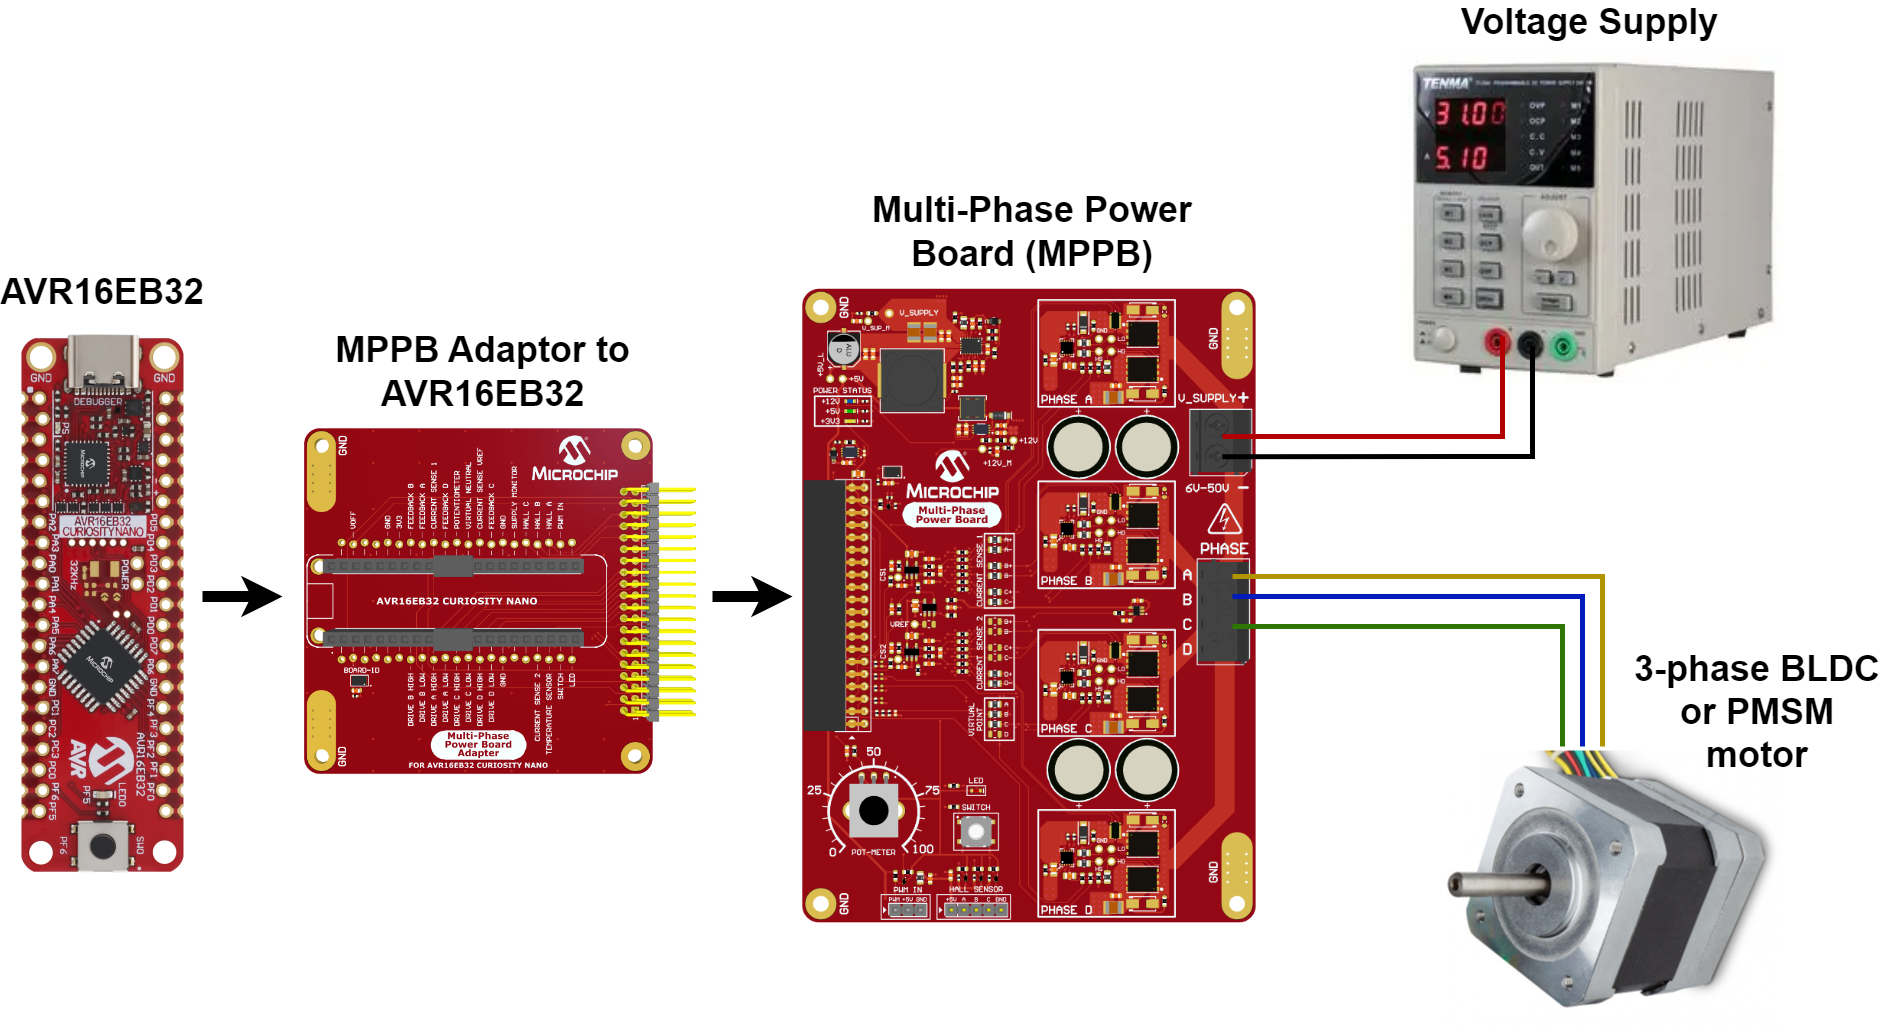
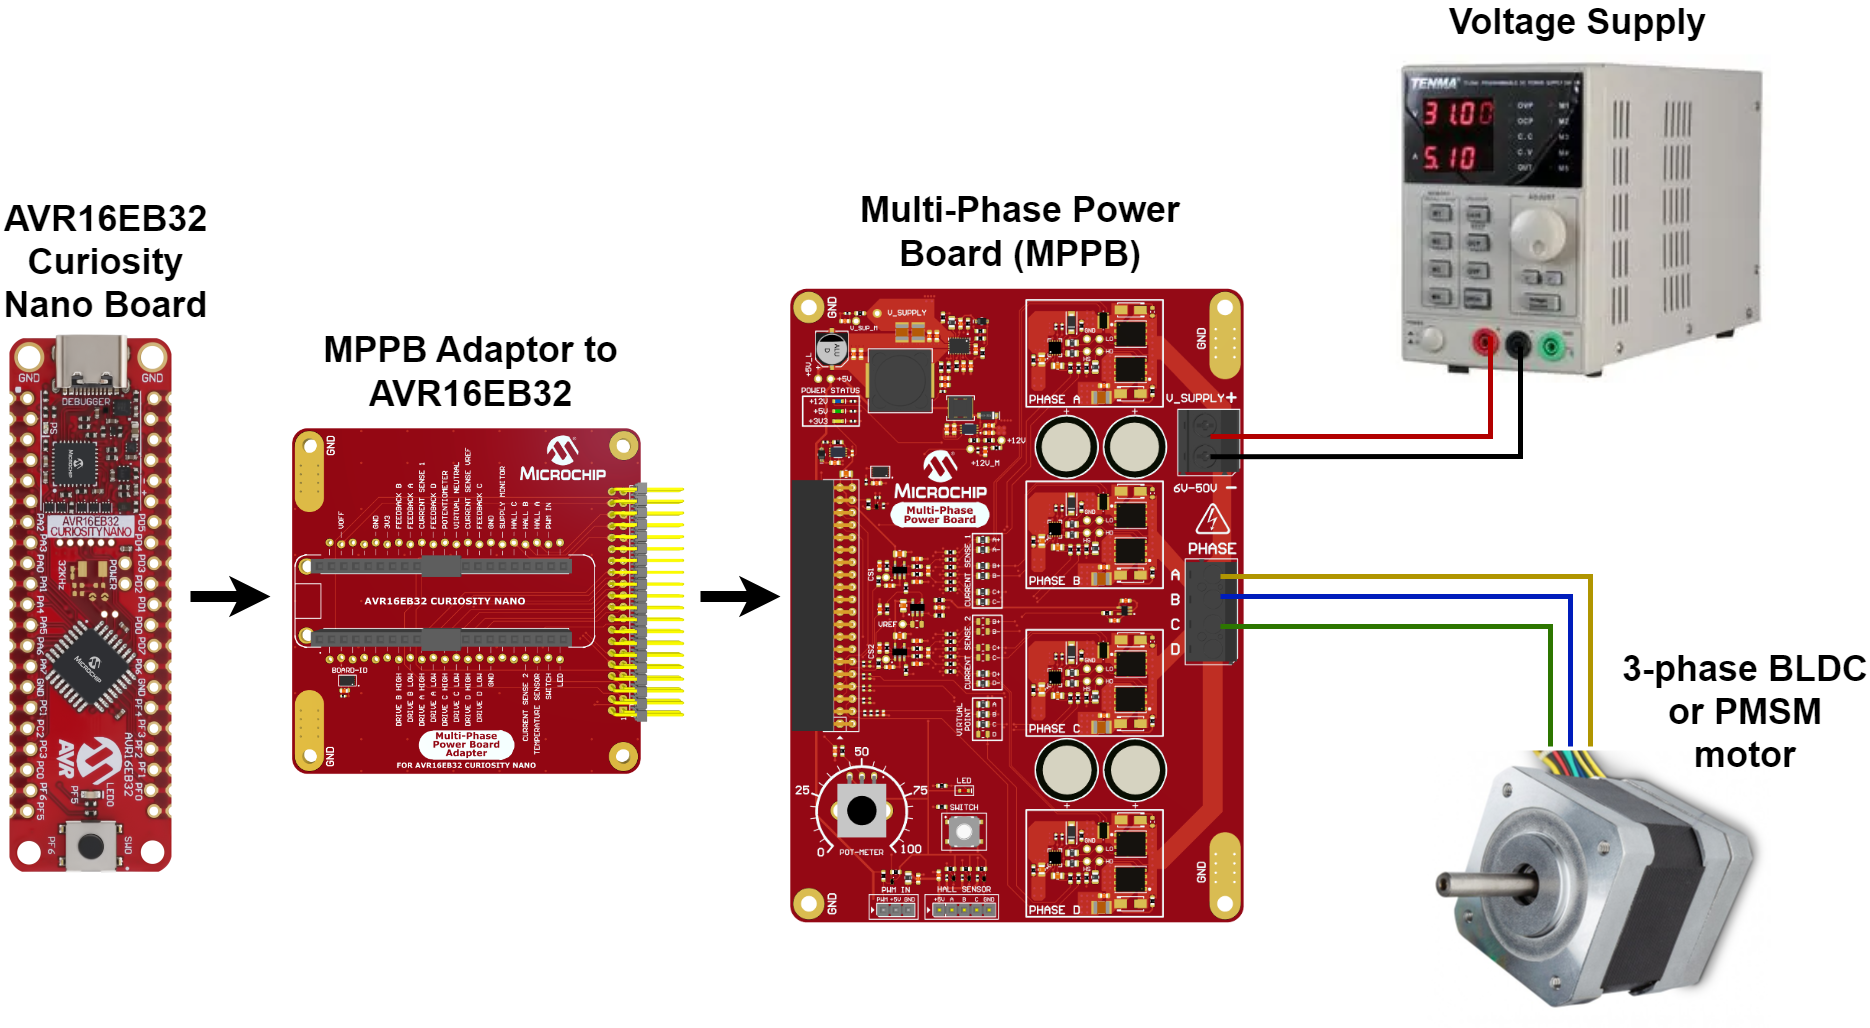
MPAE-17086 : implemented comments from TW review

diff --git a/BEMF_Acquisition_Demo/README.md b/BEMF_Acquisition_Demo/README.md
@@ -2,7 +2,7 @@
 
 ## BEMF Acquisition Demo
 
-Below is an example of how to set a Timer/Counter type E (TCE) and a Waveform Extension (WEX) instance to generate six complementary Pulse-Width Modulation (PWM) signals to drive Sinusoidal a 3-phase Brushless Direct Current Motor (BLDC), or a Permanent Magnet Synchronous Motor (PMSM). This example also configures the Analog Comparator (AC) peripheral to measure directly the Back Electromotive Force (BEMF), when the motor is spinning. The measurement window is one of the two dead time periods during a PWM cycle. This dead time period is increased to 2 µs to have a big enough acquisition window to detect clean BEMF, that is not influenced by the PWM driving signals. The other dead time period is kept at 500 ns. A full PWM cycle has 50 µs (which is the classic 20KHz frequency of MOSFET switching, used in Motor Control applications). The motor is spinning using forced commutation in this example without any sort of synchronization or Closed Loop algorithms. This code example just highlights the new BEMF measurement method, during dead time.
+This example shows how to set a Timer/Counter type E (TCE) and a Waveform Extension (WEX) instance to generate six complementary Pulse-Width Modulation (PWM) signals to spin a 3-phase Brushless Direct Current Motor (BLDC) or a Permanent Magnet Synchronous Motor (PMSM) with a Sinusoidal Drive. This example also configures the Analog Comparator (AC) peripheral to measure directly the Back Electromotive Force (BEMF), when the motor is spinning. The measurement window is one of the two dead time periods during a PWM cycle. This dead time period is increased to 2 µs to have a big enough acquisition window to detect clean BEMF, that is not influenced by the PWM driving signals. The other dead time period is kept at 500 ns. A full PWM cycle has 50 µs (which is the classic 20 KHz frequency of MOSFET switching, used in Motor Control applications). The motor is spinning using forced commutation in this example without any sort of synchronization or Closed Loop algorithms. This code example just highlights the new BEMF measurement method during dead time.
 
 ## Related Documentation
 
@@ -22,22 +22,22 @@ More details and code examples on the AVR16EB32 can be found at the following li
 ## Hardware Used
 
 - [AVR<sup>®</sup> EB Curiosity Nano](https://www.microchip.com/en-us/product/AVR16EB32)
-- [Multi-Phase Power Board (MPPB)](https://www.microchip.com/en-us/product/AVR16EB32)
-- [AVR-EB Cnano Adaptor to MPPB](https://www.microchip.com/en-us/product/AVR16EB32)
-- A BLDC or PMSM Motor[(Suggestion: Mikroe BLDC motor)](https://www.mikroe.com/motor-bldc-42blf01-with-hall-sensor)
-- A Voltage Power Supply (24 - 36V and 1 - 3A is enough)
+- [Multi-Phase Power Board (MPPB)](www.microchip.com/en-us/development-tool/EV35Z86A)
+- [AVR-EB Curiosity Nano Adaptor to MPPB](www.microchip.com/en-us/development-tool/EV88N31A)
+- Motor (Suggestion: [Mikroe BLDC Motor with Hall sensor](https://www.mikroe.com/motor-bldc-42blf01-with-hall-sensor))
+- A Voltage Power Supply (24-36V and 1-3A is enough)
 
 ## Setup
 
-The AVR16EB32 Cnano Development Board is used along with the MPP Power Board, AVR-EB Cnano to MPP Adaptor Board, the BLDC Motor and a Voltage Power Supply.
+The AVR16EB32 Curiosity Nano Development Board is used along with the MPP Power Board, AVR-EB Cnano to MPP Adaptor Board, the BLDC Motor and a Voltage Power Supply.
 
 <br><img src="../images/full_setup.png">
 
 ## Functionality
 
-<br> The peripheral clock, output port pins, TCE, WEX and AC are initialized and configured using the MPLAB® X Code Configurator. At runtime, the driving sinewave signals are generated using a Lookup Table (LUT). The LUT is scrolled using three 16-bit counters, one for each phase. The drive is updated at every PWM cycle, once every 50 µs. The counters start from different values to ensure the 120 electrical degrees phase shift for the three phases. The BEMF is read once per PWM cycle as well. The counters increment is the actual motor's speed (LUT scrolling speed). The frequency of the sinewave signals is modified by increasing or decreasing the LUT scrolling speed. The amplitude of the sinewave signals is modified using TCE's hardware scaling accelerator.
+<br> The peripheral clock, output port pins, TCE, WEX and AC are initialized and configured using the MPLAB X Code Configurator. At run-time, the driving sinewave signals are generated using a Lookup Table (LUT). The LUT is scrolled using three 16-bit counters, one for each phase. The drive is updated at every PWM cycle, once every 50 µs. The counters start from different values to ensure the 120 electrical degrees phase shift for the three phases. The BEMF is read once per PWM cycle as well. The counters increment is the actual motor's speed (LUT scrolling speed). The frequency of the sinewave signals is modified by increasing or decreasing the LUT scrolling speed. The amplitude of the sinewave signals is modified using TCE's hardware scaling accelerator.
 
-<br> At runtime the ```BEMF_Read()``` function is called in an Interrupt Service Routine (ISR). ```BEMF_Read()``` function is registered as a callback on the TCE's CMP3 vector ISR. This function gets the output from the AC and sets an IO to high '1' logic if the value is one. If the value from the AC output is zero the IO is set to '0' low logic. Every phase of the motor has an IO to show the sampled BEMF for the respective phase. PF1, PF2 and PF3 pins are used to show the sampled BEMF for the three phases of the motor. PF4 pin is used to mark the sampling moment of the BEMF during the long dead time. The AC has on the negative input the hardware reconstructed neutral phase of the motor. The AC has on the positive input the three phases of the motor, each one at a time, using a Multiplexor (MUX). The AC MUX is switched at every PWM cycle (whenever a new ISR occurs) to monitor a different phase. This means that each phase of the motor is monitored every 150 µs. The AC monitors phase A for 50 µs, then switches to phase B for another 50 µs, then switches to phase C for another 50 µs. After that the process repeats itself over and over again. 
+<br> At run-time the ```BEMF_Read()``` function is called in an Interrupt Service Routine (ISR). The ```BEMF_Read()``` function is registered as a callback on the TCE's CMP3 vector ISR. This function gets the output from the AC and sets an IO to high `1` logic if the value is one. If the value from the AC output is zero the IO is set to `0`, low logic. Every phase of the motor has an IO to show the sampled BEMF for the respective phase. PF1, PF2 and PF3 pins are used to show the sampled BEMF for the three phases of the motor. PF4 pin is used to mark the sampling moment of the BEMF during the long dead time. The AC has on the negative input the hardware reconstructed neutral phase of the motor. The AC has on the positive input the three phases of the motor, each one at a time, using a Multiplexor (MUX). The AC MUX is switched at every PWM cycle (whenever a new ISR occurs) to monitor a different phase. This means that each phase of the motor is monitored every 150 µs. The AC monitors phase A for 50 µs, then switches to phase B for another 50 µs, then switches to phase C for another 50 µs. After that the process repeats itself over and over again.
 
 ## Function Called in Interrupt Service Routine
 
@@ -77,7 +77,7 @@ void BEMF_Read(void)
 
 <br><img src="../images/bemf_acquisition_flowchart.png">
 
-<br>To generate this project using MPLAB® X IDE and the MPLAB® X Code Configurator (MCC Melody, MCC Clasic is not supported on this device), follow the next steps:
+<br>To generate this project using MPLAB X IDE and the MPLAB X Code Configurator (MCC Melody, MCC Clasic is not supported on this device), follow the next steps:
 
 <br>1. Open MPLAB X IDE and create a new project for the AVR16EB32 device.
 
@@ -87,7 +87,7 @@ void BEMF_Read(void)
 <br><img src="../images/selectMCCMelody.png">
 <br><img src="../images/mccFinish.png">
 
-<br>4. Click Project _Resources>System>CLKCTRL_, then do the following configuration:
+<br>4. Click _Project>Resources>System>CLKCTRL_, then do the following configuration:
 <br><img src="../images/Select_CLKCTRL.png">
     <br> - Disable the Prescaler enable button
 <br><img src="../images/CLKCTRL.png">
@@ -97,19 +97,19 @@ void BEMF_Read(void)
     <br>  - Module Enable: Must be enabled by default, if not just toggle the button (it turns blue if enabled)
     <br>  - Clock Selection: System clock (by default the divider must be 1 - System clock)
     <br>  - Counter Direction: UP
-    <br>  - Waveform Generation Mode: Single-slope PWM mode with overflow on TOP
-    <br>  - Requested Period[s]: 0.00005
-    <br>  - Duty Cycle 0 [%] : 0
-    <br>  - Duty Cycle 1 [%] : 0
-    <br>  - Duty Cycle 2 [%] : 0
-    <br>  - Duty Cycle 3 [%] : 98.5
-    <br>  - Waveform Output n : check the boxes from the Enable column for Waveform Output 0, 1, 2, 3
+    <br>  - Waveform Generation Mode: Single-Slope PWM mode with overflow on TOP
+    <br>  - Requested Period [s]: 0.00005
+    <br>  - Duty Cycle 0 [%]: 0
+    <br>  - Duty Cycle 1 [%]: 0
+    <br>  - Duty Cycle 2 [%]: 0
+    <br>  - Duty Cycle 3 [%]: 98.5
+    <br>  - Waveform Output n: Check the boxes from the Enable column for Waveform Output 0, 1, 2, 3
     <br>  - Scale mode: CMP values are scaled from Center, 50% DC (duty cycle)
     <br>  - Scaled Writing to registers: Normal
-    <br>  - Amplitude Control Enable: toggle the button (it turns blue if enabled)
+    <br>  - Amplitude Control Enable: Toggle the button (it turns blue if enabled)
     <br>  - Amplitude Value: 0.1
-    <br>  - Generate ISR: toggle the button (it turns blue if enabled)
-    <br>  - Compare 3 Interrupt Enable: toggle the button (it turns blue if enabled)
+    <br>  - Generate ISR: Toggle the button (it turns blue if enabled)
+    <br>  - Compare 3 Interrupt Enable: Toggle the button (it turns blue if enabled)
 <br><img src="../images/TCE.png">
 
 <br>6. To add the WEX module, go to _Device Resources>Drivers>WEX>WEX0_, then do the following configuration:
@@ -117,44 +117,44 @@ void BEMF_Read(void)
   <br> - Input Matrix: Direct
   <br> - Update Source: TCE (the update condition for the output signals will be dictated by TCE)
   <br> - Override Settings: Check all the boxes from the Output Enable column for the Waveform Output [0-5]
-  <br> - Dead-time Insertion Channel 0 Enable: toggle the button (it turns blue if enabled)
-  <br> - Dead-time Insertion Channel 1 Enable: toggle the button (it turns blue if enabled)
-  <br> - Dead-time Insertion Channel 2 Enable: toggle the button (it turns blue if enabled)
+  <br> - Dead-time Insertion Channel 0 Enable: Toggle the button (it turns blue if enabled)
+  <br> - Dead-time Insertion Channel 1 Enable: Toggle the button (it turns blue if enabled)
+  <br> - Dead-time Insertion Channel 2 Enable: Toggle the button (it turns blue if enabled)
   <br> - Requested Dead-time Low Side (μs) : 2
   <br> - Requested Dead-time High Side (μs) : 0.5
 <br><img src="../images/WEX.png">
 
 <br>7. To add the AC module, go to _Device Resources>Drivers>AC>AC0_, then do the following configuration:
 <br><img src="../images/Add_AC.png">
-  <br> - Enable: toggle the button (it turns blue if enabled)
-  <br> - Positive Input MUX Seection: Positive Pin 5
-  <br> - Negative Input MUX Seection: Negative Pin 1
-  <br> - Output Pad Enable: toggle the button (it turns blue if enabled)
+  <br> - Enable: Toggle the button (it turns blue if enabled)
+  <br> - Positive Input MUX Selection: Positive Pin 5
+  <br> - Negative Input MUX Selection: Negative Pin 1
+  <br> - Output Pad Enable: Toggle the button (it turns blue if enabled)
 <br><img src="../images/AC.png">
 
-<br>8. In the **Pin Grid View** tab check if the WEX_WO [0-5] pins are locked as outputs on PORTA. When the boxes from the Enable column in the Output Settings of WEX are checked, the pins are also locked. To change the PORT simply click a pin from another PORT in **Pin Grid View**. Check if PA7 pin is set as AC output. Check if PD4 and PD0 pins are set as inputs for AC. Also, another two pins are needed as inputs for AC for the other two phases of the motor. Click on PD5 and PD6 and set them as inputs from _Pins -> GPIO_. Last, the pins that show the sampled BEMF and the sampling moment must be set as outputs from _Pins -> GPIO_. These pins are PF1, PF2, PF3 and PF4.
+<br>8. In the **Pin Grid View** tab check if the WEX_WO [0-5] pins are locked as outputs on PORTA. When the boxes from the Enable column in the Output Settings of WEX are checked, the pins are also locked. To change the PORT simply click a pin from another PORT in **Pin Grid View**. Check if PA7 pin is set as AC output. Check if PD4 and PD0 pins are set as inputs for AC. Also, another two pins are needed as inputs for AC for the other two phases of the motor. Click PD5 and PD6 and set them as inputs from _Pins -> GPIO_. Last, the pins that show the sampled BEMF and the sampling moment must be set as outputs from _Pins>GPIO_. These pins are PF1, PF2, PF3 and PF4.
 
  |            Pin           |     Configuration     |
  | :---------------------:  | :----------------:    |
- |            PA0           |   TCE & WEX WO0       |
- |            PA1           |   TCE & WEX WO1       |
- |            PA2           |   TCE & WEX WO2       |
- |            PA3           |   TCE & WEX WO3       |
- |            PA4           |   TCE & WEX WO4       |
- |            PA5           |   TCE & WEX WO5       |
+ |            PA0           |   TCE and WEX WO0     |
+ |            PA1           |   TCE and WEX WO1     |
+ |            PA2           |   TCE and WEX WO2     |
+ |            PA3           |   TCE and WEX WO3     |
+ |            PA4           |   TCE and WEX WO4     |
+ |            PA5           |   TCE and WEX WO5     |
  |            PA7           |   AC output           |
  |            PD0           |   AC negative input 1 |
  |            PD4           |   AC positive input 5 |
  |            PD5           |   AC positive input 6 |
  |            PD6           |   AC positive input 3 |
- |            PF1           |   digital output      |
- |            PF2           |   digital output      |
- |            PF3           |   digital output      |
- |            PF4           |   digital output      |
+ |            PF1           |   Digital output      |
+ |            PF2           |   Digital output      |
+ |            PF3           |   Digital output      |
+ |            PF4           |   Digital output      |
 
 <br><img src="../images/Pin_Grid_View.PNG">
 
-<br> Go to the _Project Resources>System>Pins_. Select the Digital Input Buffer disabled option for PD5 and PD6 pins.
+<br> Go to _Project Resources>System>Pins_. Select the Digital Input Buffer disabled option for PD5 and PD6 pins.
 <br><img src="../images/Pin_Manager.png">
 
 <br>9. In the **Project Resources** tab, click the **Generate** button so that MCC will generate all the specified drivers and configurations.
@@ -179,7 +179,7 @@ void BEMF_Read(void)
 #define RPM_TO_U16(RPM)                     (uint16_t)(((float)(RPM) * 65536.0 * (float)(MOTOR_PAIR_POLES)) / ((float)(F_SAMPLING) * 60.0) + 0.5)
 
 /* Sets the amplitude of the sine wave signals, and thus the scaling values of duty cycle in U.Q.1.15 format, ranging from 0 to 1.00 
- * Duty cycle scaling is done in hardware using the hardware accelerator of TCE.*/
+ * Duty cycle scaling is done in hardware using the hardware accelerator of TCE */
 #define AMP_TO_U16(X)                       (uint16_t)(32768.0*(X) + 0.5)
 
 /* Speed of the motor - 120 RPM */
@@ -223,10 +223,10 @@ static const uint16_t sine_lookup_table[] =
   12403, 12794, 13187, 13582, 13979, 14378, 14778, 15178, 15580, 15981
 };
 
-/* Function that is called every 50us to update the drive */
+/* Function that is called every 50 μs to update the drive */
 void Motor_Drive(void)
 {
-/* Counters that scroll through the LUT at runtime. These counter are used to create the 120 degrees 
+/* Counters that scroll through the LUT at run-time. These counter are used to create the 120 degrees 
  * phase shift between each of the motor's phases */
     static uint16_t     phase_a = DEGREES_TO_U16(0.0);
     static uint16_t     phase_b = DEGREES_TO_U16(120.0);
@@ -250,7 +250,7 @@ void Motor_Drive(void)
     TCE0_CompareChannels012BufferedSet(drive_a, drive_b, drive_c);
 }
 
-/* Functions that switches the MUX to monitor all 3 phases at runtime */
+/* Functions that switches the MUX to monitor all three phases at run-time */
 void Mux_Set(uint8_t mode)
 {
     uint8_t temp;
@@ -337,9 +337,9 @@ Below are some logic analyzer captures, to help understand how the six PWM signa
 <br>Sampled BEMF for one phase of the motor:
 <br><img src="../images/Sampled_BEMF.PNG">
 
-<br>All 3 phases of the motor with their sampled BEMF signals. In this capture the phase signals are filtered with a hardware low pass filter in order to observe the sinusoidal drive:
+<br>All three phases of the motor with their sampled BEMF signals. In this capture the phase signals are filtered with a hardware low pass filter to observe the sinusoidal drive:
 <br><img src="../images/Phases_BEMF.PNG">
 
 ## Summary
 
-This project shows how to use the TCE & WEX to generate PWM signals in Single-Ramp mode to drive a 3-phase BLDC or PMSM motor, and use the AC to measure BEMF during the dead time period.
+This project shows how to use the TCE and WEX to generate PWM signals in Single-Ramp mode to drive a 3-phase BLDC or PMSM motor, and use the AC to measure BEMF during the dead time period.

diff --git a/README.md b/README.md
@@ -2,9 +2,9 @@
 
 # BEMF Acquisition During Dead Time
 
-This repository contains an example of MPLAB® Code Configurator (MCC) Melody generated source code for the Timer/Counter Type E (TCE), Waveform Extension (WEX) and Analog Comparator (AC) peripherals of the AVR<sup>®</sup> EB family of devices. There is one appication described in this document. The application's functionality is explained.
+This repository contains an example of MPLAB® Code Configurator (MCC) Melody generated source code for the Timer/Counter Type E (TCE), Waveform Extension (WEX) and Analog Comparator (AC) peripherals of the AVR<sup>®</sup> EB family of devices. This document provides a description of an application, including an explanation of its functionality.
 
-* [<strong>BEMF Acquisition Demo:</strong>](BEMF_Acquisition_Demo) This use case shows a new method to detect and measure Back Electromotive Force (BEMF), in an Motor Control application for Brushless Direct Current Motors (BLDC), or Permanent Magnet Synchronous Motors (PMSM), that are driven with a Sinusoidal Drive. In a Sinusoidal Drive all the 3 phases of the motor are driven constantly. There are no floating phases, like in the Trapezoidal Drive with 6-step block commutation. By increasing the duration of one dead time up to 5 times compared to the other one, this method can measure the BEMF using an AC peripheral.
+* [<strong>BEMF Acquisition Demo:</strong>](BEMF_Acquisition_Demo) This use case shows a new method to detect and measure Back Electromotive Force (BEMF) in a Motor Control application for Brushless Direct Current Motors (BLDC) or Permanent Magnet Synchronous Motors (PMSM), that are driven with a Sinusoidal Drive. In a Sinusoidal Drive all three phases of the motor are driven constantly, and there are no floating phases, such as the 6-step block commutation in the Trapezoidal Drive. By increasing the duration of one dead time up to five times compared to the other one, this method can measure the BEMF using an AC peripheral.
 
 ## Related Documentation
 
@@ -24,13 +24,13 @@ More details and code examples on the AVR16EB32 can be found at the following li
 ## Hardware Used
 
 - [AVR<sup>®</sup> EB Curiosity Nano](https://www.microchip.com/en-us/product/AVR16EB32)
-- [Multi-Phase Power Board (MPPB)](https://www.microchip.com/en-us/product/AVR16EB32)
-- [AVR-EB Cnano Adaptor to MPPB](https://www.microchip.com/en-us/product/AVR16EB32)
-- A BLDC or PMSM Motor[(Suggestion: Mikroe BLDC motor)](https://www.mikroe.com/motor-bldc-42blf01-with-hall-sensor)
-- A Voltage Power Supply (24 - 36V and 1 - 3A is enough)
+- [Multi-Phase Power Board (MPPB)](www.microchip.com/en-us/development-tool/EV35Z86A)
+- [AVR-EB Curiosity Nano Adaptor to MPPB](www.microchip.com/en-us/development-tool/EV88N31A)
+- Motor (Suggestion: [Mikroe BLDC Motor with Hall sensor](https://www.mikroe.com/motor-bldc-42blf01-with-hall-sensor))
+- A Voltage Power Supply (24-36V and 1-3A is enough)
 
 ## Setup
 
-The AVR16EB32 Cnano Development Board is used along with the MPP Power Board, AVR-EB Cnano to MPP Adaptor Board, the BLDC Motor and a Voltage Power Supply.
+The AVR16EB32 Curiosity Nano Development Board is used along with the MPP Power Board, AVR-EB Cnano to MPP Adaptor Board, the BLDC Motor and a Voltage Power Supply.
 
 <br><img src="images/full_setup.png">
